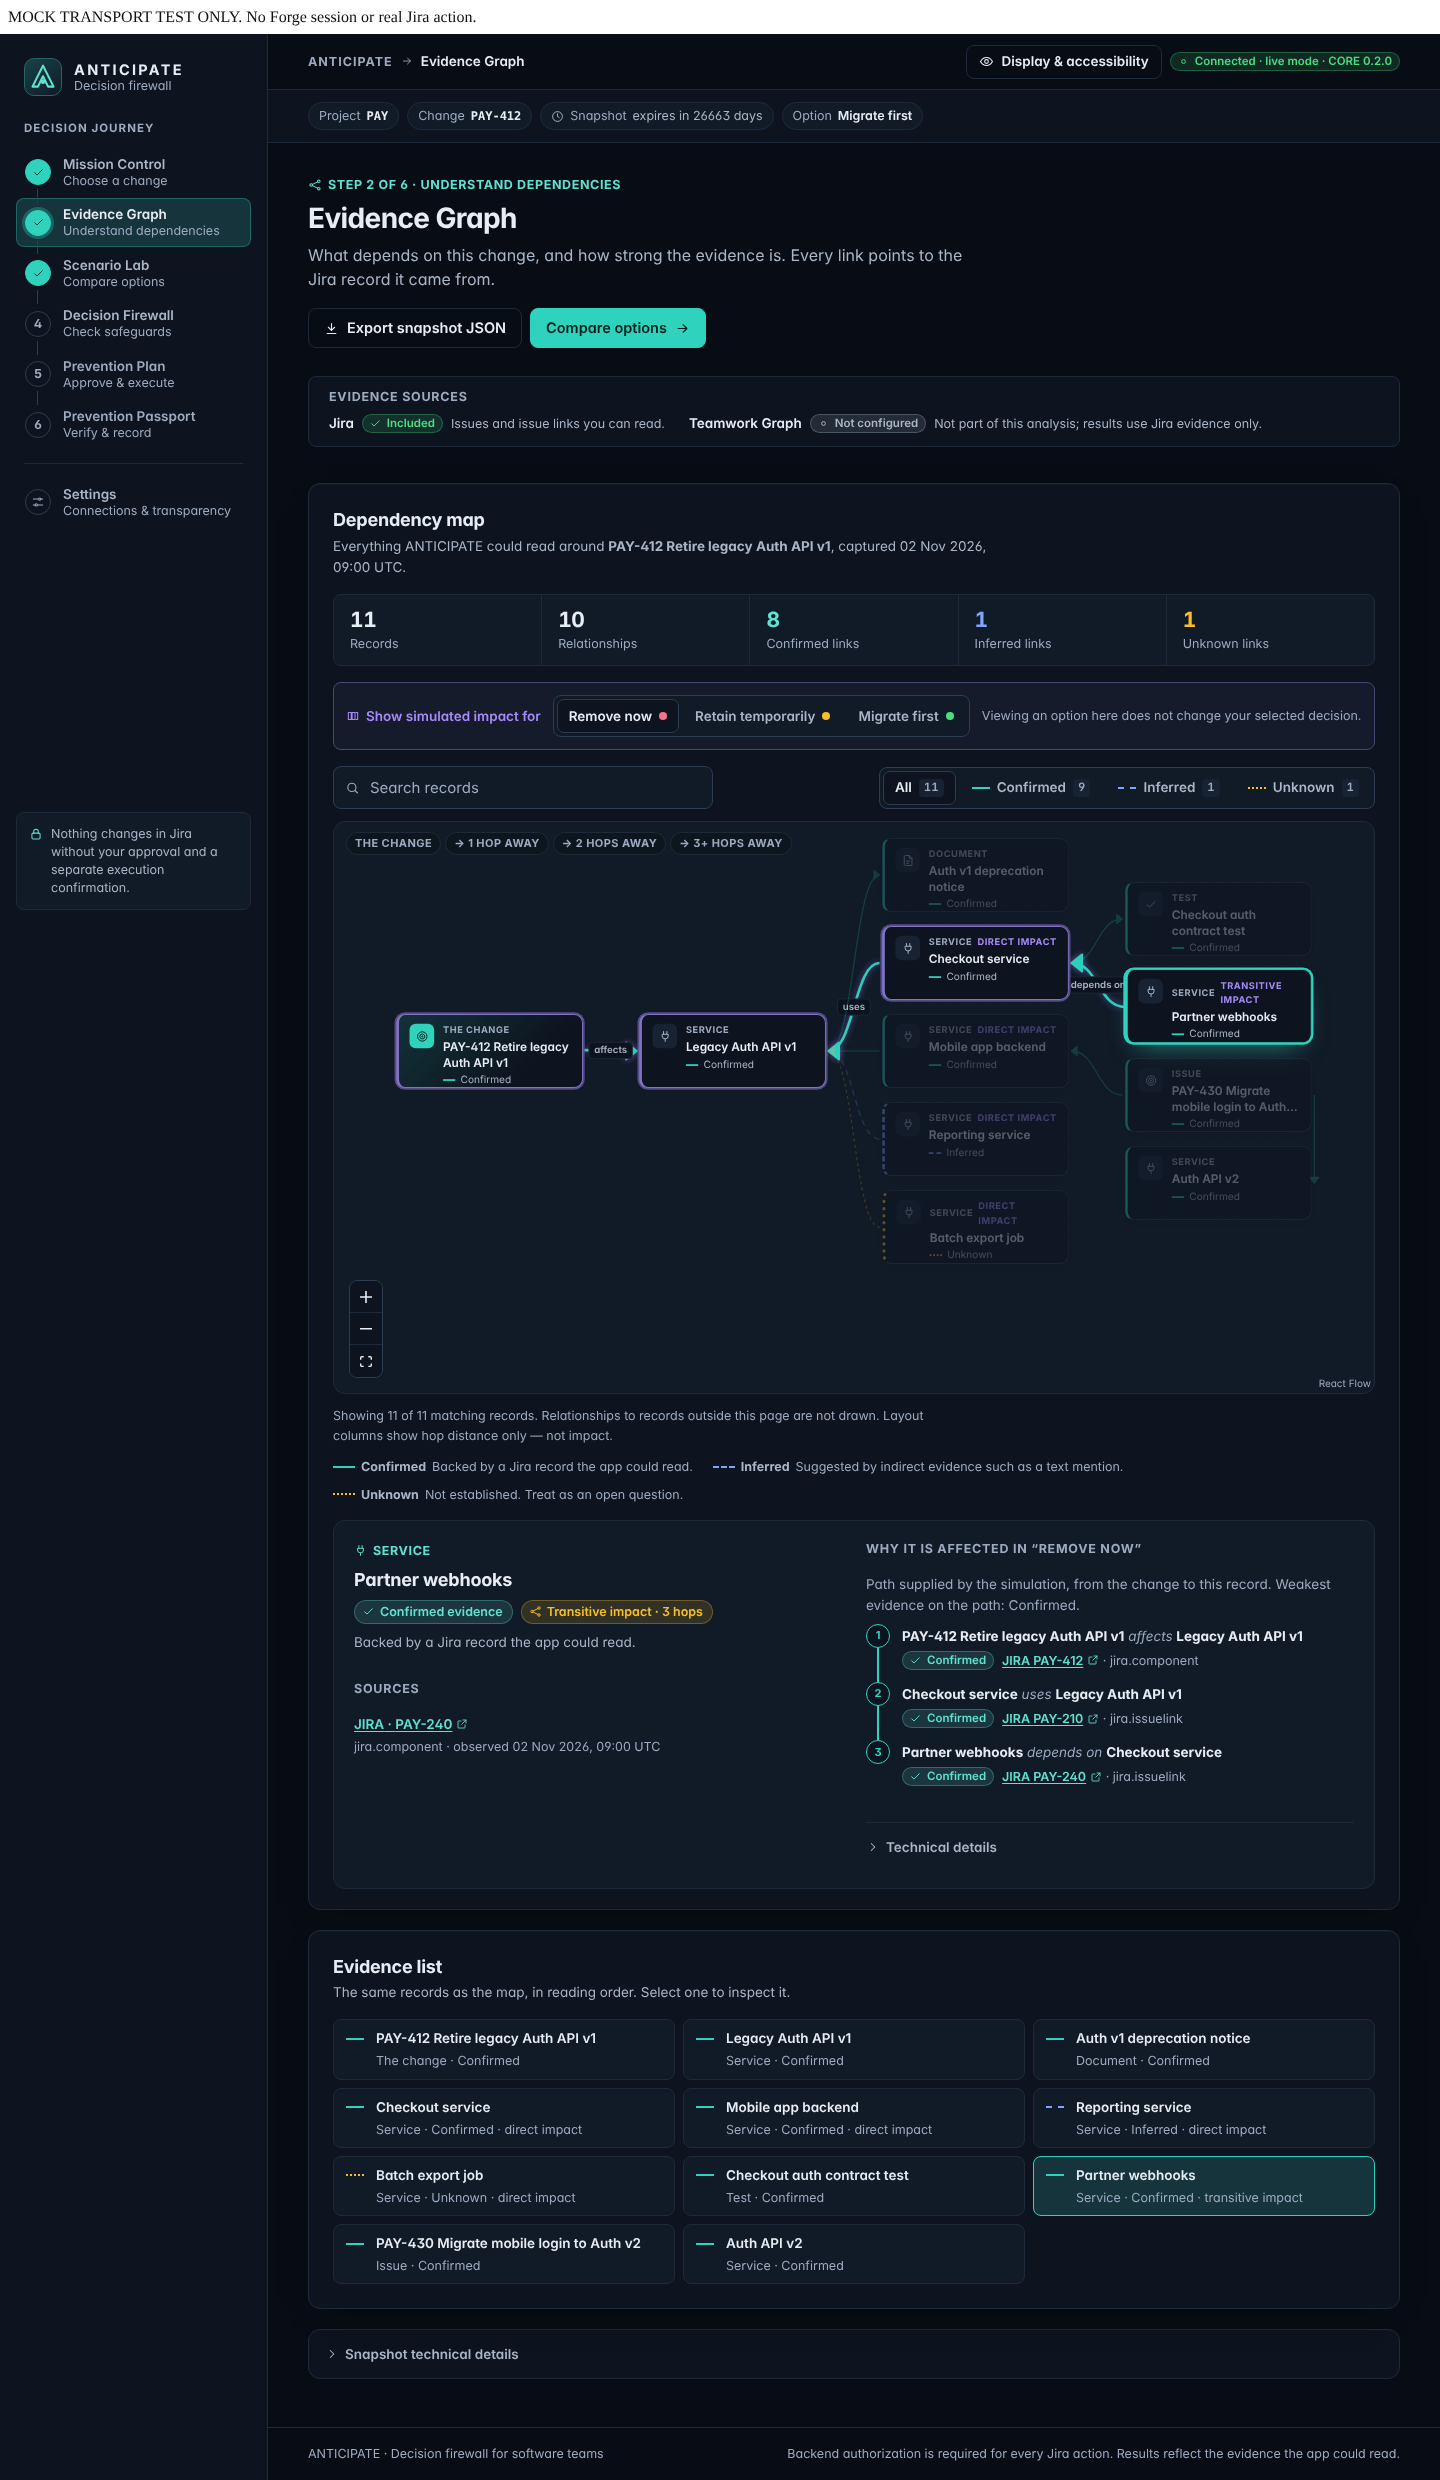
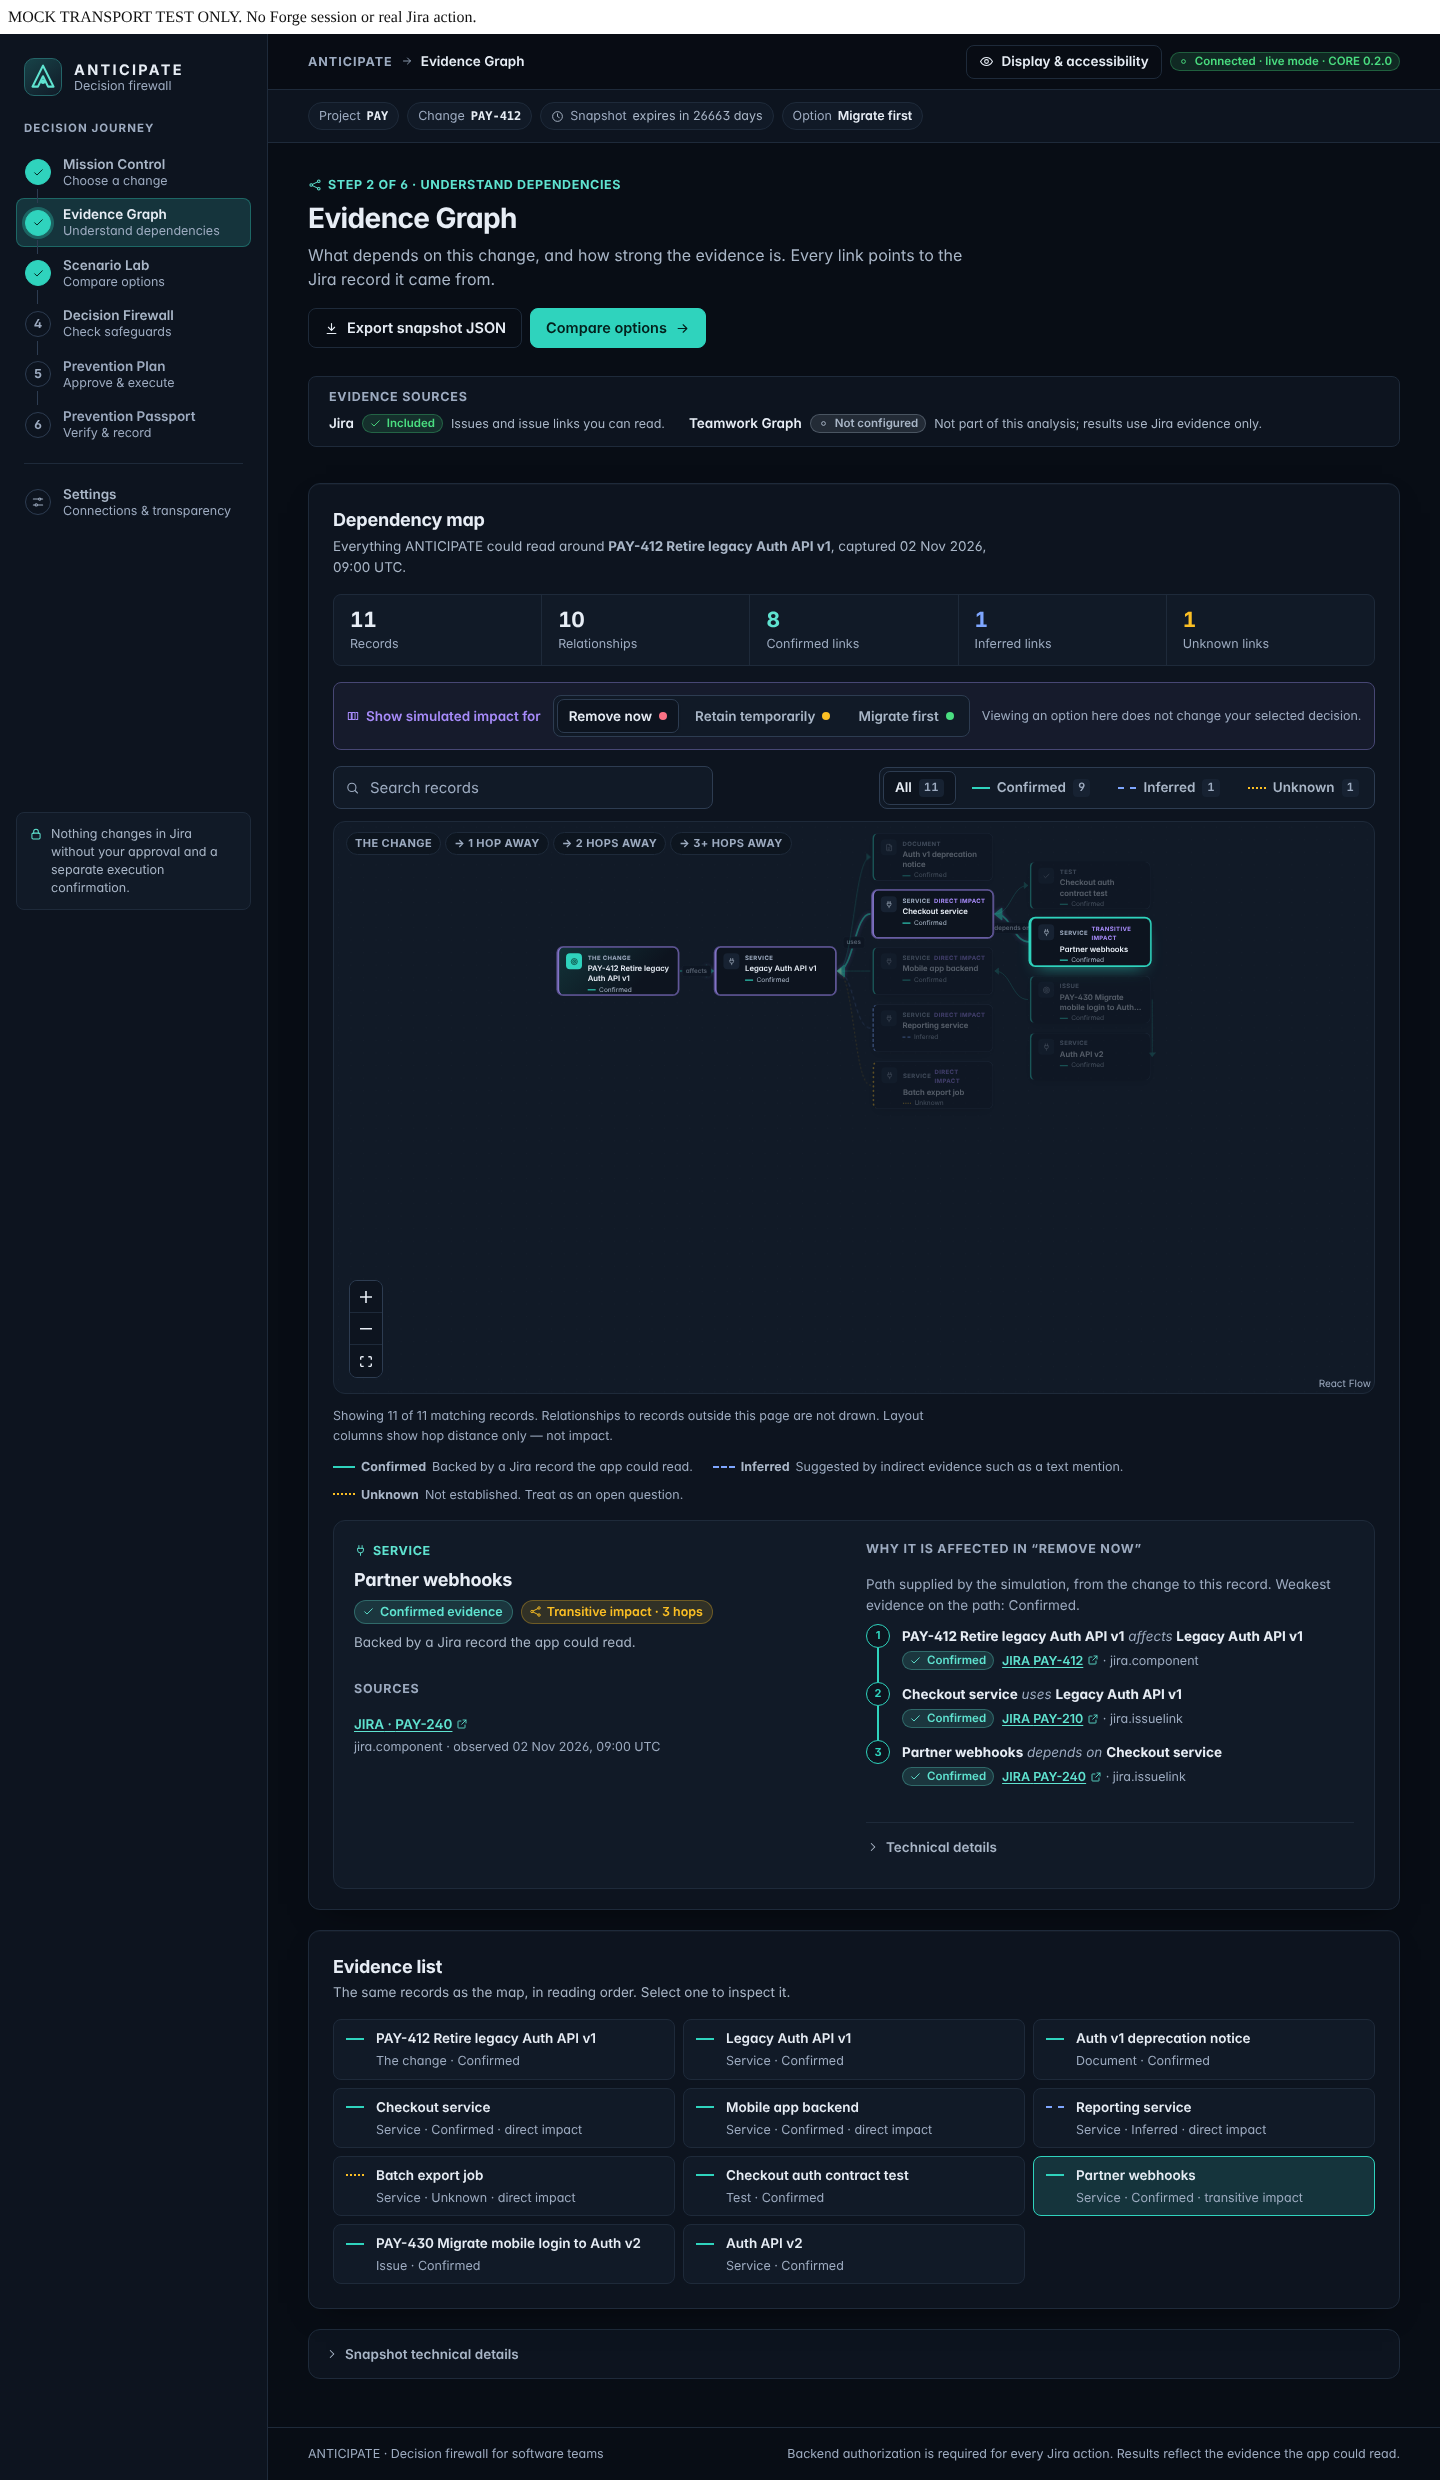
Tests: restore real light-theme coverage after the dark default (PR #25)
PR #25 made Dark the product default, so the harness ?theme=light (passed
as the host theme) no longer changed anything: every 'light' axe check and
capture actually rendered dark (mean luminance 33 vs 33). The harness now
applies ?theme= as the viewer's saved display choice and ?host= as the
Atlassian host theme. Display-menu test updated to the new default (starts
Dark, switches to Light, reset returns to Dark); no assertion removed.
Light captures regenerated (luminance 236).

Checks: 83/83 Chromium Playwright, 56/56 unit (local, mock transport).

Claude-Session: https://claude.ai/code/session_01HwHiqnB9hjWFkExHxkdG5t

Changed region(s): [[0.2812, 0.3415, 0.9062, 0.4968]]

diff --git a/static/hello-world/tests/sample-project.spec.ts b/static/hello-world/tests/sample-project.spec.ts
@@ -367,7 +367,8 @@ test("display and accessibility menu applies theme and preferences everywhere an
   await page.setViewportSize({ width: 390, height: 844 });
   await sampleCore(page, "success", { openPanel: false });
   const app = page.locator(".ax-app");
-  await expect(app).toHaveAttribute("data-theme", "light");
+  // Product default since PR #25: Dark, whatever the host theme.
+  await expect(app).toHaveAttribute("data-theme", "dark");
   const menu = page.getByRole("button", {
     name: "Display & accessibility",
     exact: true,
@@ -377,7 +378,7 @@ test("display and accessibility menu applies theme and preferences everywhere an
   const dialog = page.getByRole("dialog", {
     name: "Display and accessibility",
   });
-  await dialog.getByRole("radio", { name: "Dark", exact: true }).check();
+  await dialog.getByRole("radio", { name: "Light", exact: true }).check();
   await dialog
     .getByRole("group", { name: "Text size" })
     .getByRole("radio", { name: "Larger", exact: true })
@@ -391,7 +392,7 @@ test("display and accessibility menu applies theme and preferences everywhere an
     .getByRole("radio", { name: "Reduce", exact: true })
     .check();
   await dialog.getByRole("radio", { name: "Simplified", exact: true }).check();
-  await expect(app).toHaveAttribute("data-theme", "dark");
+  await expect(app).toHaveAttribute("data-theme", "light");
   await expect(app).toHaveAttribute("data-text-size", "larger");
   await expect(app).toHaveAttribute("data-contrast", "high");
   await expect(app).toHaveAttribute("data-motion", "reduce");
@@ -418,7 +419,7 @@ test("display and accessibility menu applies theme and preferences everywhere an
   const settings = page.getByRole("region", {
     name: "Display & accessibility",
   });
-  await expect(settings).toContainText("Current theme: Dark");
+  await expect(settings).toContainText("Current theme: Light");
   await expect(
     settings.getByRole("radio", { name: "Larger", exact: true }),
   ).toBeChecked();
@@ -431,7 +432,7 @@ test("display and accessibility menu applies theme and preferences everywhere an
   ).toEqual([]);
   // Persisted in this browser.
   await page.reload();
-  await expect(page.locator(".ax-app")).toHaveAttribute("data-theme", "dark");
+  await expect(page.locator(".ax-app")).toHaveAttribute("data-theme", "light");
   await expect(page.locator(".ax-app")).toHaveAttribute(
     "data-text-size",
     "larger",
@@ -441,7 +442,7 @@ test("display and accessibility menu applies theme and preferences everywhere an
     .getByRole("dialog", { name: "Display and accessibility" })
     .getByRole("button", { name: "Reset display settings", exact: true })
     .click();
-  await expect(page.locator(".ax-app")).toHaveAttribute("data-theme", "light");
+  await expect(page.locator(".ax-app")).toHaveAttribute("data-theme", "dark");
   await expect(page.locator(".ax-app")).toHaveAttribute(
     "data-contrast",
     "system",

diff --git a/static/hello-world/tests/core-harness.ts b/static/hello-world/tests/core-harness.ts
@@ -4,6 +4,24 @@ import { createRoot } from "react-dom/client";
 import CoreWorkspace from "../src/CoreWorkspace";
 import { ForgeClient } from "../src/api/ForgeClient";
 import "../src/styles/anticipate.css";
+import { STORAGE_KEY } from "../src/app/preferences";
+
+// `?theme=light|dark` is applied as the viewer's saved display choice (the
+// product default is Dark since PR #25, so a host theme alone no longer
+// changes it). `?host=` sets the Atlassian host theme for Automatic.
+const params = new URLSearchParams(location.search);
+const chosen = params.get("theme");
+if (chosen === "light" || chosen === "dark") {
+  try {
+    const saved = JSON.parse(localStorage.getItem(STORAGE_KEY) ?? "{}");
+    localStorage.setItem(
+      STORAGE_KEY,
+      JSON.stringify({ ...saved, theme: chosen }),
+    );
+  } catch {
+    /* storage unavailable: product default applies */
+  }
+}
 const client = new ForgeClient(
   async (operation, input) =>
     (
@@ -37,10 +55,7 @@ createRoot(document.getElementById("root")!).render(
     ),
     React.createElement(CoreWorkspace, {
       client,
-      theme:
-        new URLSearchParams(location.search).get("theme") === "dark"
-          ? "dark"
-          : "light",
+      theme: params.get("host") === "dark" ? "dark" : "light",
     }),
   ),
 );

diff --git a/static/hello-world/tests/passport-print.spec.ts b/static/hello-world/tests/passport-print.spec.ts
@@ -201,7 +201,7 @@ test("historical Passport shows its retention state and recorded counts", async 
             : executions;
     await route.fulfill({ json: response(data) });
   });
-  await page.goto("/tests/core-harness.html");
+  await page.goto("/tests/core-harness.html?theme=light");
   await page.getByLabel("Recovery plan ID").fill(longPlan.planId);
   await page
     .getByRole("button", { name: "Recover plan and execution status" })
